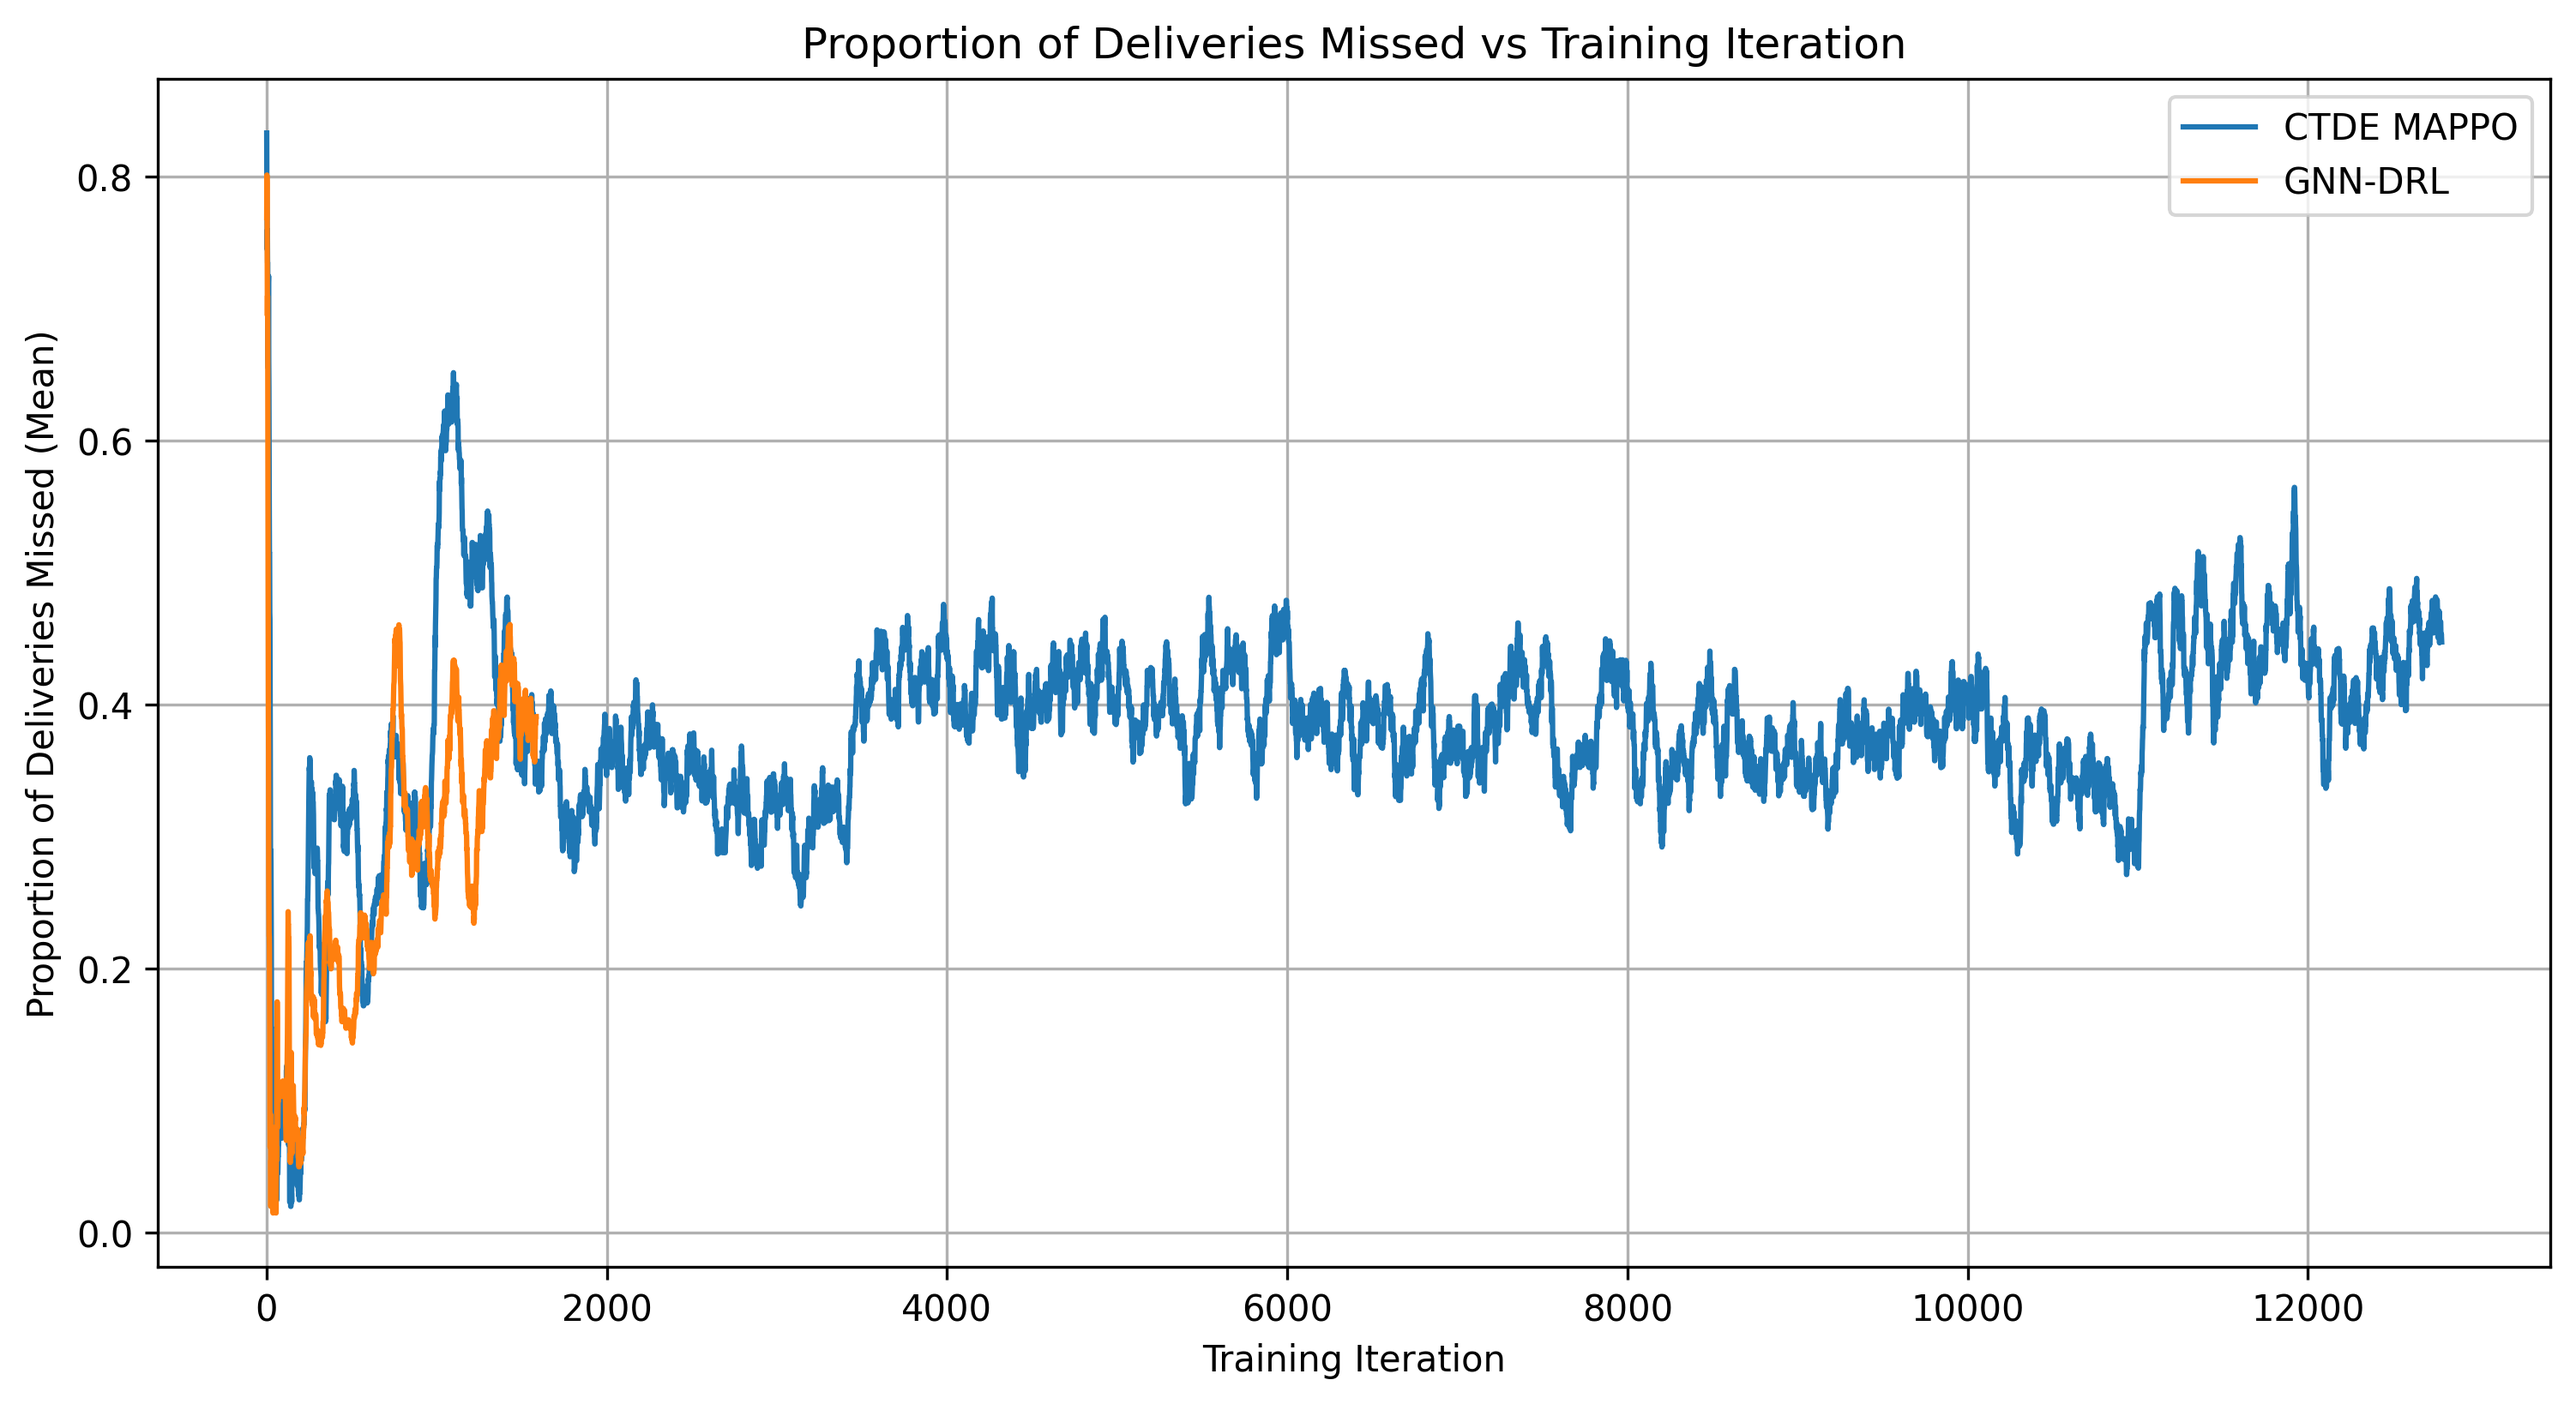
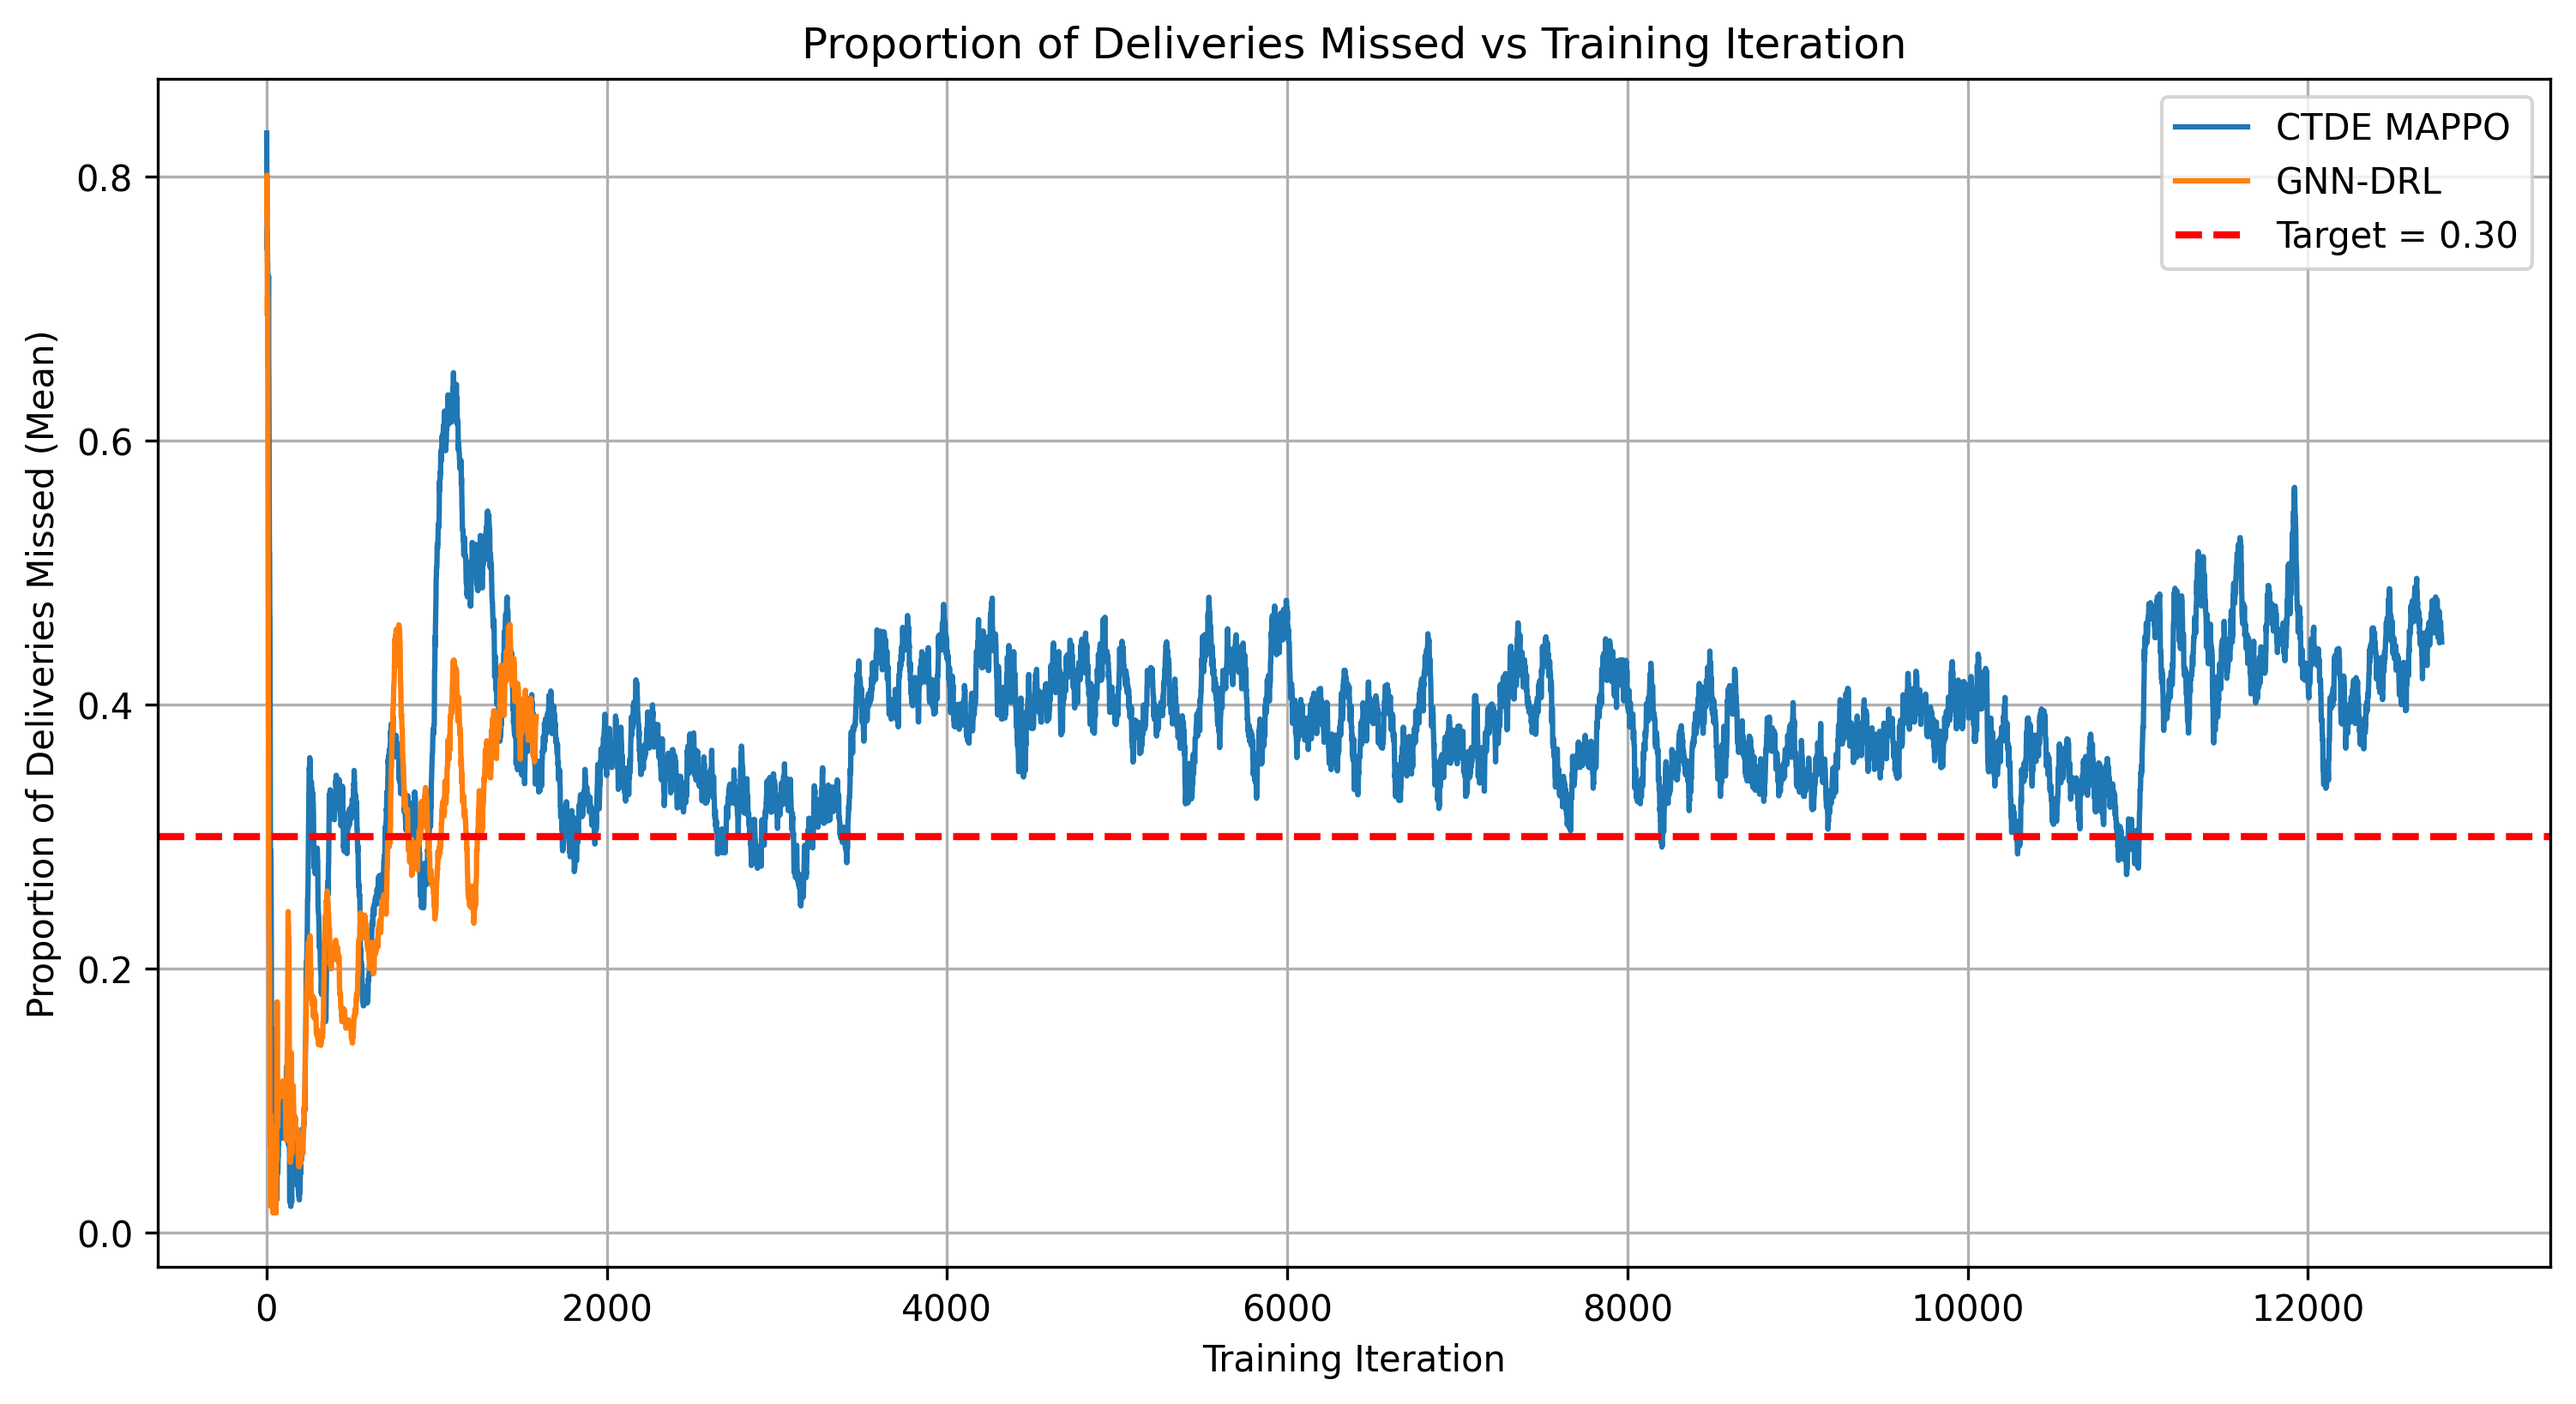
working, good looking graphs

Changed region(s): [[0.0619, 0.5916, 0.9907, 0.6227], [0.8359, 0.0623, 0.9907, 0.1868]]

diff --git a/training_curriculum.py b/training_curriculum.py
@@ -4,24 +4,22 @@
 import wandb
 import pandas as pd
 import matplotlib.pyplot as plt
+import matplotlib.gridspec as gridspec
 
 # Choose the metric
-metrics = [
-    ("env_runners/custom_metrics/env/number_of_agents_mean",
-     "Number of Agents (Mean)"),
-
-    ("env_runners/custom_metrics/env/number_of_airports_mean",
-     "Number of Airports (Mean)"),
-
-    ("env_runners/custom_metrics/env/number_of_initial_cargo_mean",
-     "Number of Initial Cargo (Mean)"),
-
-    ("env_runners/custom_metrics/dynamic_cargo_generated_mean",
-     "Dynamic Cargo Generated (Mean)"),
-
-     ("env_runners/custom_metrics/env/malfunction_rate_mean",
-     "Malfunction Rate (Mean)"),
+# Single-metric plots (3 of them)
+single_metrics = [
+    ("env_runners/custom_metrics/env/number_of_agents_mean",  "Number of Agents (Mean)"),
+    ("env_runners/custom_metrics/env/number_of_airports_mean","Number of Airports (Mean)"),
+    ("env_runners/custom_metrics/env/malfunction_rate_mean",  "Malfunction Rate (Mean)"),
 ]
+
+# The two cargo metrics to combine into one subplot
+cargo_metrics = [
+    ("env_runners/custom_metrics/env/number_of_initial_cargo_mean", "Initial Cargo"),
+    ("env_runners/custom_metrics/dynamic_cargo_generated_mean",     "Dynamic Cargo"),
+]
+
 
 # Connect to wandb API
 api = wandb.Api()
@@ -51,37 +49,66 @@ def fetch_full(run, metric):
     )
     return df
 
-fig, axes = plt.subplots(3, 2, figsize=(14, 15), sharex=True)
+# --- layout: 2x2 (4 total plots) ---
+# --- layout: 2x2 (4 total plots) ---
+fig, axes = plt.subplots(2, 2, figsize=(14, 10), sharex=True)
 axes = axes.flatten()
 
-for ax, (metric_key, metric_label) in zip(axes, metrics):
+cargo_ax = axes[3]   # dedicate axis for cargo plot
+
+# 1) Plot the three single metrics
+for plot_ax, (metric_key, metric_label) in zip(axes[:3], single_metrics):
+    df_ctde = fetch_full(run1, metric_key)
+    df_gnn  = fetch_full(run2, metric_key)
+
+    plot_ax.plot(df_ctde["training_iteration"], df_ctde["value"],
+                 label="CTDE MAPPO", color="tab:blue")
+    plot_ax.plot(df_gnn["training_iteration"], df_gnn["value"],
+                 label="GNN-DRL", color="tab:orange")
+
+    plot_ax.set_title(metric_label)
+    plot_ax.set_ylabel(metric_label)
+    plot_ax.grid(True)
+    plot_ax.legend(loc="lower right")
+
+# 2) Combined cargo plot (4 legend items)
+for metric_key, short_label in cargo_metrics:
 
     df_ctde = fetch_full(run1, metric_key)
     df_gnn  = fetch_full(run2, metric_key)
 
-    ax.plot(df_ctde["training_iteration"], df_ctde["value"], label="CTDE MAPPO")
-    ax.plot(df_gnn["training_iteration"],  df_gnn["value"],  label="GNN-DRL")
+    is_dynamic = "dynamic" in metric_key.lower()
+    linestyle = "--" if is_dynamic else "-"
 
-    ax.set_title(metric_label)
-    ax.set_ylabel(metric_label)
-    ax.grid(True)
+    cargo_ax.plot(
+        df_ctde["training_iteration"], df_ctde["value"],
+        label=f"CTDE MAPPO – {short_label}",
+        color="tab:blue",
+        linestyle=linestyle
+    )
 
-df_ctde.to_csv("csv/ctde_curriculum.csv", index=False)
-df_gnn.to_csv("csv/gnn_curriculum.csv", index=False)
+    cargo_ax.plot(
+        df_gnn["training_iteration"], df_gnn["value"],
+        label=f"GNN-DRL – {short_label}",
+        color="tab:orange",
+        linestyle=linestyle
+    )
 
-# Make the plot
+cargo_ax.set_title("Cargo (Mean)")
+cargo_ax.set_ylabel("Cargo (Mean)")
+cargo_ax.grid(True)
+cargo_ax.legend(loc="best")
 
-# Common X label
-for ax in axes:
-    ax.set_xlabel("Training Iteration")
+# common x labels
+for plot_ax in axes:
+    plot_ax.set_xlabel("Training Iteration")
 
-# Single legend for entire figure
-handles, labels = axes[0].get_legend_handles_labels()
-fig.legend(handles, labels, loc="upper center", ncol=2)
+# put legend only on the cargo subplot (so it shows 4 items)
+cargo_ax.legend(loc="best")
 
 fig.suptitle("Curriculum Training Metrics vs Training Iteration", fontsize=16)
 fig.tight_layout(rect=[0, 0.03, 1, 0.95])
 
-# plt.show()
+fig.savefig("figs/curriculum_training_metrics.png", dpi=300, bbox_inches="tight")
+plt.close(fig)
 
-plt.savefig("figs/curriculum_training_metrics.png", dpi=300, bbox_inches="tight")

diff --git a/training_missed_deliveries.py b/training_missed_deliveries.py
@@ -54,6 +54,7 @@ plt.title("Proportion of Deliveries Missed vs Training Iteration")
 plt.xlabel("Training Iteration")
 plt.ylabel("Proportion of Deliveries Missed (Mean)")
 plt.grid(True)
+plt.axhline(y=0.3, linestyle="--", linewidth=2, label="Target = 0.30", color="red")
 plt.legend()
 # plt.show()
 

diff --git a/README.md b/README.md
@@ -1,0 +1,32 @@
+# run_all helper
+
+This repo contains three plotting/processing scripts used for thesis visuals. `run_all.py` is a small runner that executes them sequentially.
+
+Files added:
+
+- `run_all.py` - Python script that runs the three training scripts in order. Exits non-zero on the first failure unless `--continue-on-error` is passed.
+- `run_all.ps1` - PowerShell wrapper to call the Python runner.
+
+Usage
+
+PowerShell (recommended on Windows):
+
+```powershell
+# run and stop on first error
+.\run_all.ps1
+
+# run and continue even if a script fails
+.\run_all.ps1 -ContinueOnError
+```
+
+Direct Python:
+
+```powershell
+python run_all.py
+python run_all.py --continue-on-error
+```
+
+Notes
+
+- The runner uses the same Python interpreter that executes `run_all.py` (use `python` to run it with your chosen interpreter).
+- If any of the training scripts are missing, the runner will report and exit with code 2 (unless `--continue-on-error` is used).
